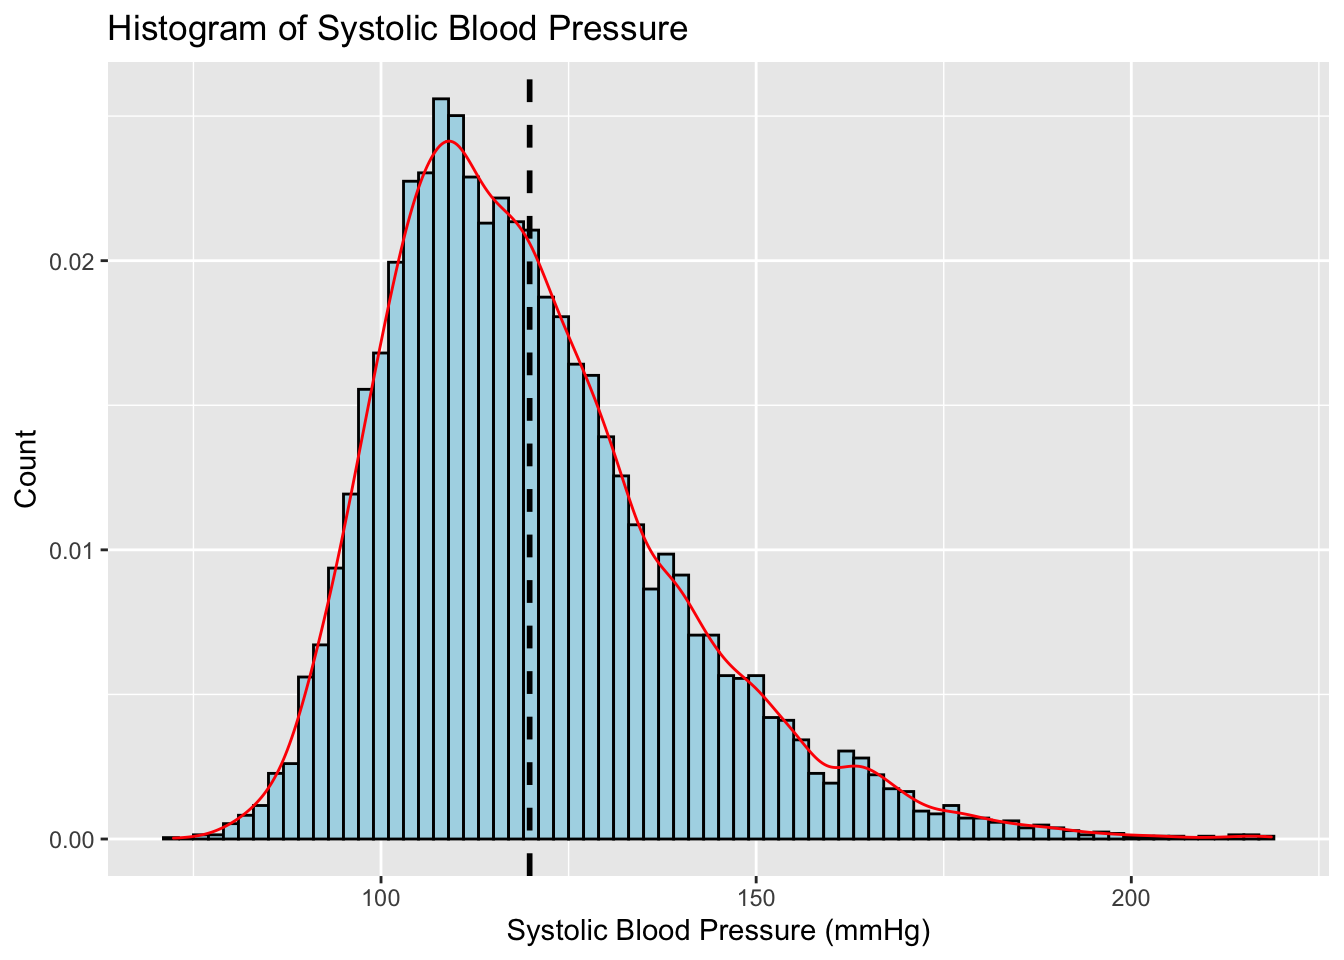
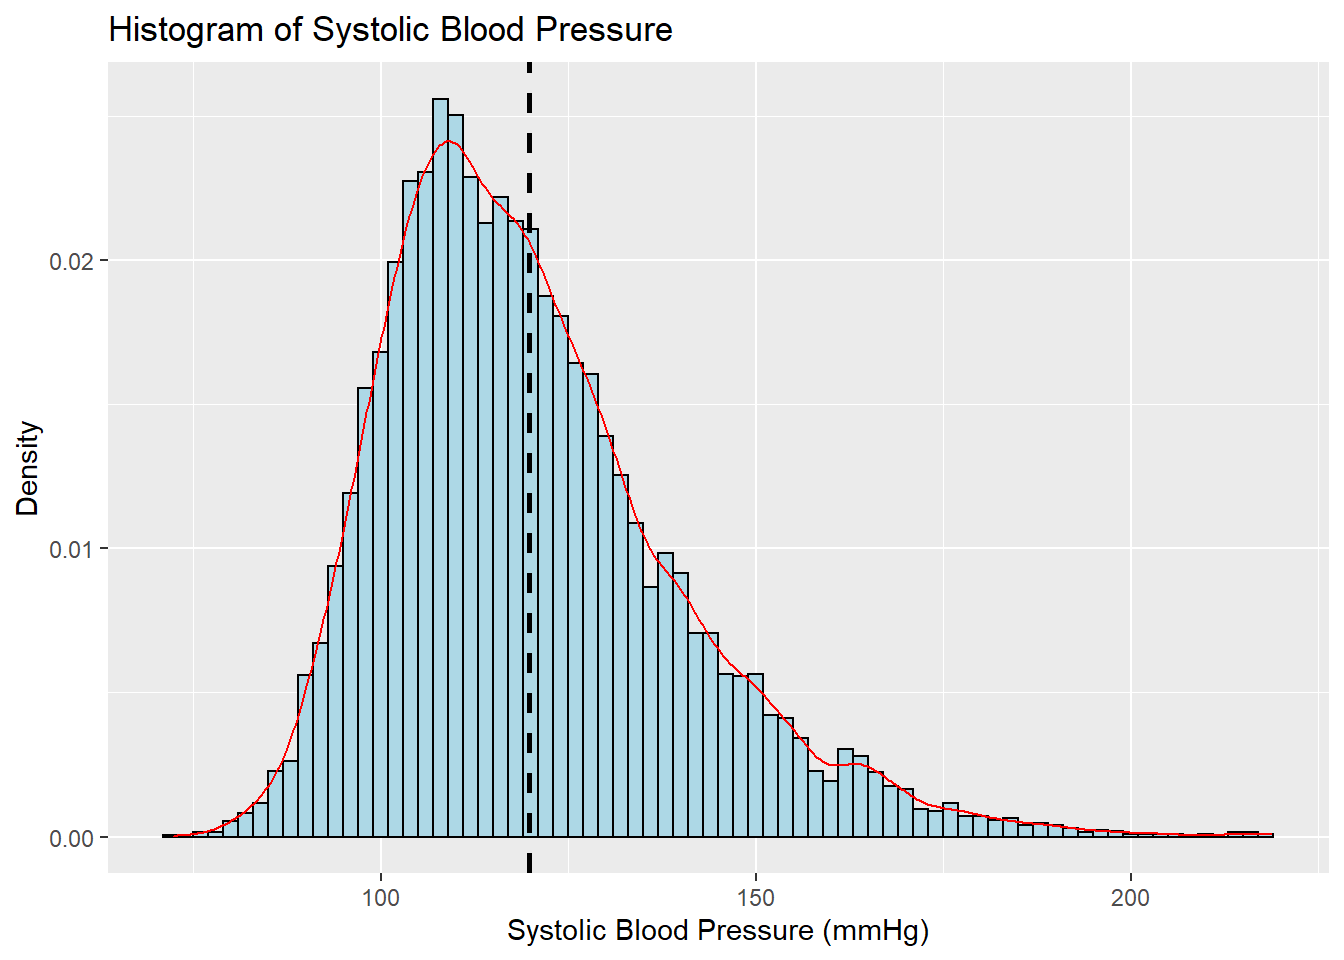
should be final

diff --git a/content/post/2022-10-20-blog-post-2/index.en.html b/content/post/2022-10-20-blog-post-2/index.en.html
@@ -20,12 +20,8 @@ featuredImage: ~
 </div>
 
 <p>To perform our exploratory data analysis, we first took a generalized look at the data as is and focus on columns of information that we would most likely utilize in our analysis using “select”. There are also multiple data sets for the NHANES data sets. It will be necessary to see how to align the different data sets together if each data point is of the same person. If the data points are not aligned in such a way, there might be a possibility of generalizing the primary and secondary data for our analysis. Initially, the data was in .XPT, a SAS data file. We used the package “haven” in R to import and load the XPT data in R. Then, we converted the data into .CSV in R and saved the dataset as “bpdata.csv”.</p>
-<p>Since on the website the datasets are grouped by years, we will choose a dataset from one year to work on for our exploratory analysis and eventually combine multiple datasets from different years for further analysis. The year we chose from NHANES was 2017-March 2020 Pre-Pandemic, and inside the dataset, we chose “Examination Data”. We chose to look into all the blood pressure columns because blood pressure is generally representative of a person’s health status – people with high blood pressure tend to have an unhealthier lifestyle and diet than people with normal blood pressure.</p>
-<p>Not only missing values, but also dissection of periods of time and location would be significant for our data organization. Referring to the overview of data description: <a href="https://www.cdc.gov/nchs/data/series/sr_02/sr02-190.pdf" class="uri">https://www.cdc.gov/nchs/data/series/sr_02/sr02-190.pdf</a>, not all the data are on the same age and location. In order to integrate this, after removing the missing values of focused columns, we neet to identify as if they are all in a same categorical values.</p>
-<p>We initially analyzed the Systolic Blood Pressure and Diastolic Blood Pressure using histograms. Our graphs show that both distributions are right-skewed, and the Systolic Blood Pressure Histogram is more positively skewed than Diastolic Blood Pressure. This is consistent with our assumption and general health trends – high outliers are people with high blood pressure, which are more common than people with low blood pressure due to current diet and lifestyle.</p>
-<p>As mentioned on Blog Post 1, our main goal with this data analysis is to find the general trend of health in various ways, as well as if there was a significant change in health trends from the pre-pandemic vs. post pandemic time periods. The meaningful variables that are noticeable and will be useful for general trends are Blood pressure and cholesterol (BPQ), Diabetes (DIQ), Hospital utilization and access to care (HUQ), Smoking and tobacco use (SMQ) — Adult. We will discuss both direct AND indirect measurements for health in the way that contribute to the general trend. Moreover, the data NHANES 2017-March 2020 Pre-pandemic and 2021 (also 2022) will be our main data since it will able us to analyze pre and post-pandemic health trends. Some very basic examples for the plot and statistics are below:</p>
-<pre class="r"><code>suppressPackageStartupMessages(library(tidyverse))</code></pre>
-<pre class="r"><code>bpdata &lt;- read_csv(here::here(&quot;dataset/bpdata.csv&quot;))</code></pre>
+<pre class="r"><code>suppressPackageStartupMessages(library(tidyverse))
+bpdata &lt;- read_csv(here::here(&quot;dataset/bpdata.csv&quot;))</code></pre>
 <pre><code>## Rows: 11656 Columns: 12
 ## ── Column specification ────────────────────────────────────────────────────────
 ## Delimiter: &quot;,&quot;
@@ -34,39 +30,35 @@ featuredImage: ~
 ## 
 ## ℹ Use `spec()` to retrieve the full column specification for this data.
 ## ℹ Specify the column types or set `show_col_types = FALSE` to quiet this message.</code></pre>
+<p>Since on the website the datasets were grouped by years, we chose a dataset from one year to work on for our exploratory analysis and will eventually combine multiple datasets from different years for further analysis. The year we chose from NHANES was 2017-March 2020 Pre-Pandemic, and inside the dataset, we chose “Examination Data”. This is the most recent available NHANES dataset that includes information from both 2020 and previous years. Due to the pandemic, a convenience sample was used, so additional data points were recruited in order to create a more representative dataset. We chose to look into all the blood pressure columns because blood pressure is generally representative of a person’s health status – people with high blood pressure tend to have a more unhealthy lifestyle and diet than people with normal blood pressure, so we could look at the distribution of blood pressure. After choosing focused variables, we cleaned the data of these columns by removing missing values.</p>
+<p>As mentioned on Blog Post 1, our main goal with this data analysis is to find the general trend of health in various ways, as well as if there was a significant change in health trends from the pre-pandemic vs. post pandemic time periods. The meaningful variables that are noticeable and will be useful for general trends are Blood pressure and cholesterol (BPQ), Diabetes (DIQ), Hospital utilization and access to care (HUQ), Smoking and tobacco use (SMQ) — Adult. We will discuss both direct AND indirect measurements for health in the way that contribute to the general trend. Moreover, the data NHANES 2017-March 2020 Pre-pandemic and 2021 (also 2022) will be our main data since it will allow us to analyze pre and post-pandemic health trends. Some very basic examples for the plot and statistics are below:</p>
 <pre class="r"><code>#we&#39;re gonna be plotting a histogram of blood pressure measurements as well as reporting some descriptive stats for BP
 #taking average across the three columns for each type of blood pressure measurement
 bpMean &lt;- bpdata %&gt;% mutate(MeanDia = rowMeans(select(.,BPXODI1,BPXODI2,BPXODI3), na.rm = TRUE)) %&gt;% mutate(MeanSys = rowMeans(select(.,BPXOSY1,BPXOSY2,BPXOSY3), na.rm = TRUE))
 
 #making a table of descriptive stats
-bpMean %&gt;% summarise(Mean_Systolic = mean(MeanSys, na.rm = TRUE), Median_Systolic = median(MeanSys, na.rm = TRUE), IQR_Systolic = IQR(MeanSys, na.rm = TRUE), Mean_Diastolic = mean(MeanDia, na.rm = TRUE), Median_Diastolic = median(MeanDia, na.rm = TRUE), IQR_Diastolic = IQR(MeanDia, na.rm = TRUE)) %&gt;% knitr::kable()</code></pre>
+bpMean %&gt;% select(MeanDia, MeanSys) %&gt;% pivot_longer(everything()) %&gt;% mutate(Blood_Pressure_Type = str_replace(name,&quot;MeanSys&quot;,&quot;Systolic&quot;), name = str_replace(name,&quot;MeanDia&quot;,&quot;Diastolic&quot;)) %&gt;% group_by(Blood_Pressure_Type) %&gt;% summarise(Mean = mean(value, na.rm = TRUE), Median = median(value, na.rm = TRUE), IQR = IQR(value, na.rm = TRUE)) %&gt;% knitr::kable()</code></pre>
 <table>
-<colgroup>
-<col width="15%" />
-<col width="17%" />
-<col width="14%" />
-<col width="16%" />
-<col width="19%" />
-<col width="15%" />
-</colgroup>
 <thead>
 <tr class="header">
-<th align="right">Mean_Systolic</th>
-<th align="right">Median_Systolic</th>
-<th align="right">IQR_Systolic</th>
-<th align="right">Mean_Diastolic</th>
-<th align="right">Median_Diastolic</th>
-<th align="right">IQR_Diastolic</th>
+<th align="left">Blood_Pressure_Type</th>
+<th align="right">Mean</th>
+<th align="right">Median</th>
+<th align="right">IQR</th>
 </tr>
 </thead>
 <tbody>
 <tr class="odd">
-<td align="right">119.8101</td>
-<td align="right">116.6667</td>
-<td align="right">24</td>
+<td align="left">MeanDia</td>
 <td align="right">71.59384</td>
 <td align="right">70.66667</td>
 <td align="right">16</td>
+</tr>
+<tr class="even">
+<td align="left">Systolic</td>
+<td align="right">119.81010</td>
+<td align="right">116.66667</td>
+<td align="right">24</td>
 </tr>
 </tbody>
 </table>
@@ -75,7 +67,7 @@ bpMean %&gt;% ggplot(aes(x = MeanSys, y = ..density..)) +
   geom_histogram(binwidth = 2, colour= &quot;black&quot;, fill= &quot;lightblue&quot;) +
   geom_vline(aes(xintercept = mean(MeanSys, na.rm = TRUE)),color=&quot;black&quot;, linetype=&quot;dashed&quot;, size=1) +
   geom_density(color = &quot;red&quot;) +
-  labs(title = &quot;Histogram of Systolic Blood Pressure&quot;, x = &quot;Systolic Blood Pressure (mmHg)&quot;, y = &quot;Count&quot;) </code></pre>
+  labs(title = &quot;Histogram of Systolic Blood Pressure&quot;, x = &quot;Systolic Blood Pressure (mmHg)&quot;, y = &quot;Density&quot;) </code></pre>
 <pre><code>## Warning: Removed 1303 rows containing non-finite values (stat_bin).</code></pre>
 <pre><code>## Warning: Removed 1303 rows containing non-finite values (stat_density).</code></pre>
 <p><img src="{{< blogdown/postref >}}index.en_files/figure-html/unnamed-chunk-3-1.png" width="672" /></p>
@@ -83,8 +75,8 @@ bpMean %&gt;% ggplot(aes(x = MeanSys, y = ..density..)) +
   geom_histogram(binwidth = 2, colour= &quot;black&quot;, fill= &quot;lightblue&quot;) +
   geom_vline(aes(xintercept = mean(MeanDia, na.rm = TRUE)),color=&quot;black&quot;, linetype=&quot;dashed&quot;, size=1) +
   geom_density(color = &quot;red&quot;) +
-  labs(title = &quot;Histogram of Diastolic Blood Pressure&quot;, x = &quot;Diastolic Blood Pressure (mmHg)&quot;, y = &quot;Count&quot;) </code></pre>
+  labs(title = &quot;Histogram of Diastolic Blood Pressure&quot;, x = &quot;Diastolic Blood Pressure (mmHg)&quot;, y = &quot;Density&quot;) </code></pre>
 <pre><code>## Warning: Removed 1303 rows containing non-finite values (stat_bin).
 ## Removed 1303 rows containing non-finite values (stat_density).</code></pre>
 <p><img src="{{< blogdown/postref >}}index.en_files/figure-html/unnamed-chunk-3-2.png" width="672" /></p>
-<p>As a very brief analysis, general blood pressure increased significantly when comparing between 2018 vs. 2019 and 2019 vs. 2020. It is not surprising that our team got this obvious pattern of COVID-19 oppressed people to go out and work/be active, as well as an increase of delivery/fast food consumption which would generally lead to increase of blood pressure in a nutshell.</p>
+<p>We initially analyzed the Systolic Blood Pressure and Diastolic Blood Pressure using histograms. Our graphs show that both distributions are right-skewed, and the Systolic Blood Pressure Histogram is more positively skewed than Diastolic Blood Pressure. This is consistent with our assumption and general health trends – high outliers are people with high blood pressure, which are more common than people with low blood pressure due to the increased prevalence of hypertension versus hypotension.</p>
